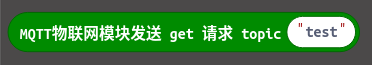
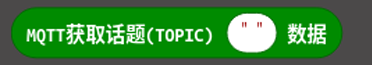
msg

diff --git a/README.md b/README.md
@@ -1,6 +1,14 @@
 # EMmqtt
 让用户非常容易接收和发送物联网信息，远程物联网控制从未如此简单。
 
+物联中心地址：https://aiot.huiwancode.com
+
+物联网编程步骤：
+1.注册账号
+2.添加物联硬件
+3.绘玩编程APP云集模块添加云数据进行交互
+4.查看配置并进行程序编写
+
 ![image](image/index.png)
 
 ## 硬件参数
@@ -75,4 +83,4 @@
 
 ![image](image/http_example.png)
 
-     解释：mqtt物联网模块设置P1，P2引脚为发送接收引脚，设置Wi-Fi配置，连接Wi-Fi；连接http服务器，端口为80，当按下microbit A键之后，mqtt模块发送get请求“test”,并且把接收到的请求数据在microbit点阵屏上显示。
+     解释：mqtt物联网模块设置P1，P2引脚为发送接收引脚，设置Wi-Fi配置，连接Wi-Fi；连接http服务器，端口为80，当按下microbit A键之后，mqtt模块发送get请求“dataset/get/id/ig54853k/secret/s7e00556i1kbi1ll/topic/84742/name/{替换为APP云集数据名称}”,并且把接收到的请求数据在microbit点阵屏上显示。
